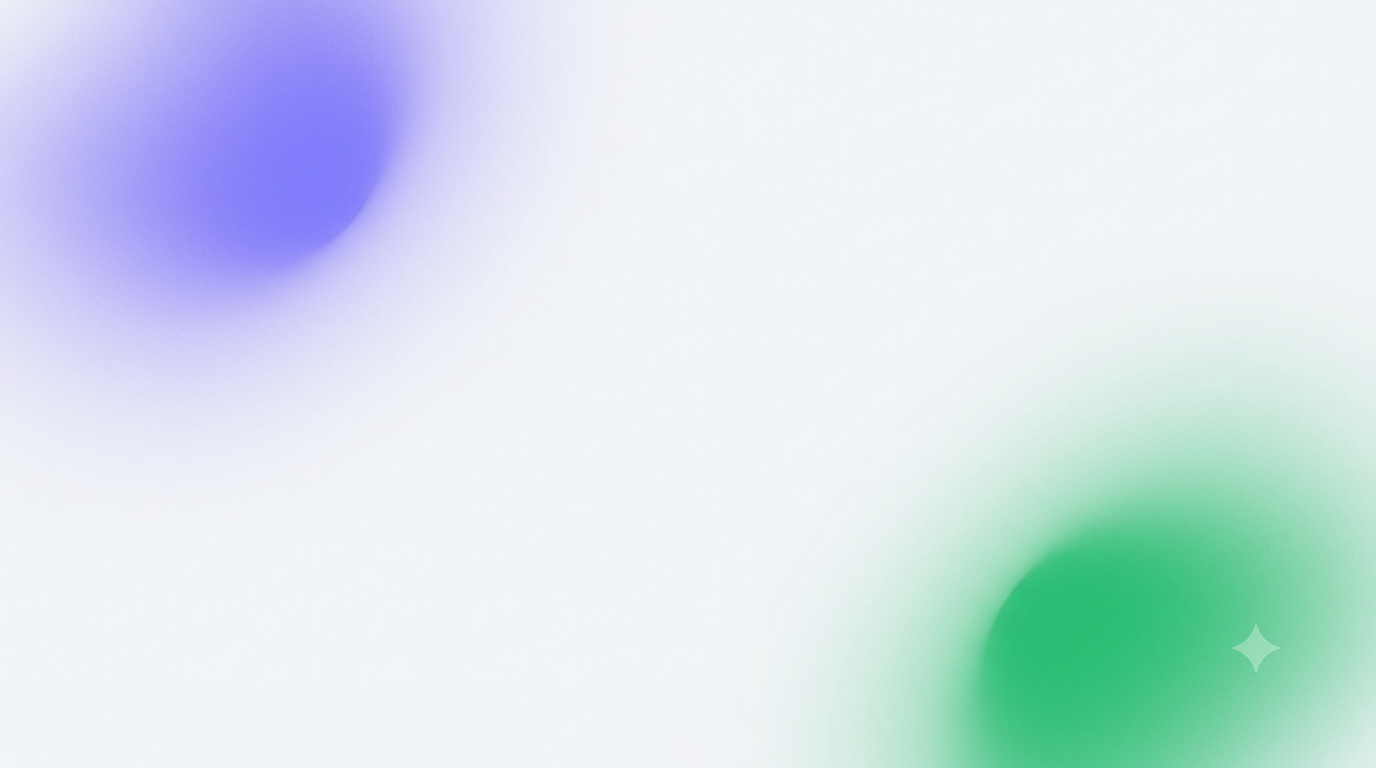
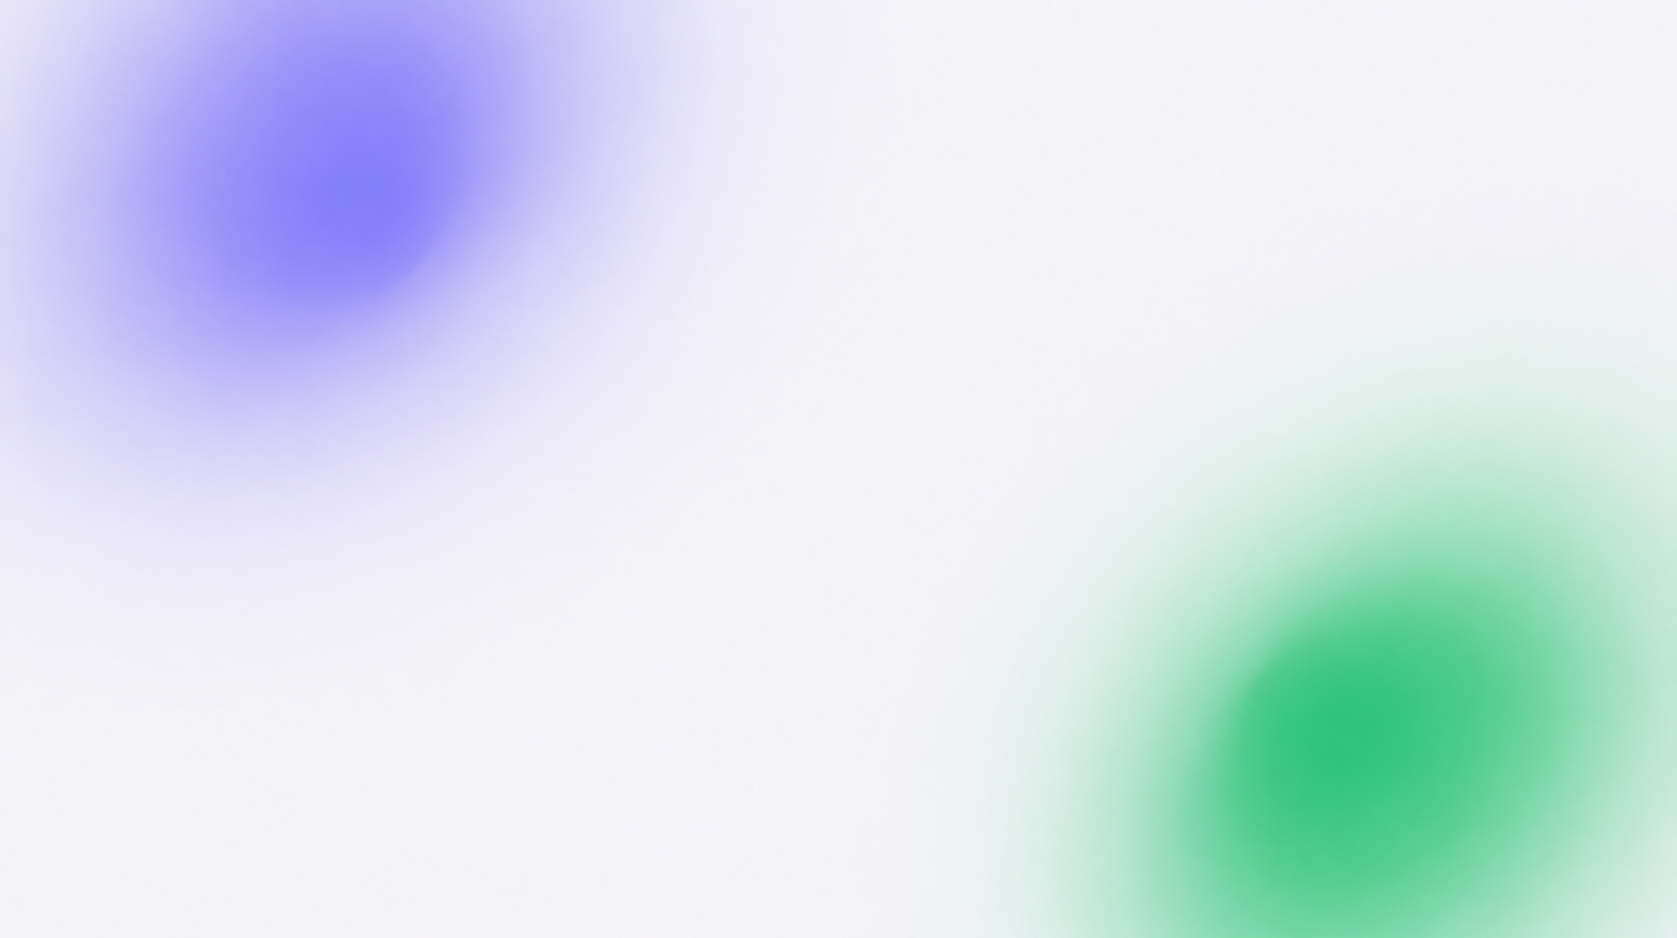
feat(auth): implement new login page UI and update global typography

diff --git a/frontend/src/pages/LoginPage.tsx b/frontend/src/pages/LoginPage.tsx
@@ -3,6 +3,7 @@ import { useNavigate, Link } from "react-router-dom";
 import api from "../api/client";
 import { useAuth } from "../auth/AuthContext";
 import { Toast } from "../lib/toast";
+import AuthLayout from "../auth/AuthLayout";
 
 const LoginPage = () => {
   const navigate = useNavigate();
@@ -27,18 +28,37 @@ const LoginPage = () => {
     }
   };
 
-  return (
-    <div className="min-h-screen flex items-center justify-center bg-gray-100">
-      <form
-        onSubmit={submit}
-        className="bg-white p-6 rounded-lg shadow w-full max-w-sm"
-      >
-        <h1 className="text-2xl font-bold mb-4">Login</h1>
+      return (
+        <AuthLayout
+          title="Welcome Back"
+          subtitle="Sign in to continue to your workspace."
+        >
+          <form
+            onSubmit={submit}
+            className="space-y-5"
+          >
 
-        {error && <p className="text-red-600 mb-3">{error}</p>}
+        {error && (
+          <div className="rounded-xl border border-red-200 bg-red-50 px-4 py-3 text-sm text-red-600">
+            {error}
+          </div>
+        )}
 
         <input
-          className="w-full border p-2 mb-3 rounded"
+          className="
+                      w-full
+                      rounded-xl
+                      border
+                      border-slate-200
+                      bg-white/80
+                      px-4
+                      py-3
+                      outline-none
+                      transition
+                      focus:border-primary
+                      focus:ring-4
+                      focus:ring-primary/10
+                      "
           placeholder="Email"
           value={email}
           onChange={(e) => setEmail(e.target.value)}
@@ -47,25 +67,63 @@ const LoginPage = () => {
 
         <input
           type="password"
-          className="w-full border p-2 mb-4 rounded"
+          className="
+                      w-full
+                      rounded-xl
+                      border
+                      border-slate-200
+                      bg-white/70
+                      px-5
+                      py-4
+                      text-base
+                      placeholder:text-slate-400
+                      outline-none
+                      transition-all
+                      duration-200
+                      focus:border-[#6D5CFF]
+                      focus:ring-4
+                      focus:ring-[#6D5CFF]/10
+                      "
           placeholder="Password"
           value={password}
           onChange={(e) => setPassword(e.target.value)}
           required
         />
 
-        <button className="w-full bg-blue-600 text-white py-2 rounded">
+        <button className="
+                          w-full
+                          rounded-xl
+                          border
+                          border-slate-200
+                          bg-white/70
+                          px-5
+                          py-4
+                          text-base
+                          placeholder:text-slate-400
+                          outline-none
+                          transition-all
+                          duration-200
+                          focus:border-[#6D5CFF]
+                          focus:ring-4
+                          focus:ring-[#6D5CFF]/10
+                          ">
           Login
         </button>
 
-        <p className="text-sm mt-4 text-center">
-          Don’t have an account?{" "}
-          <Link to="/register" className="text-blue-600 underline">
-            Register
-          </Link>
-        </p>
-      </form>
-    </div>
+        <p className="pt-2 text-center text-sm text-slate-600">
+        Don’t have an account?{" "}
+        <Link
+          to="/register"
+          className="
+                      font-semibold
+                      text-[#6D5CFF]
+                      transition-colors
+                      hover:text-[#5B4EF5]">
+          Create Account
+        </Link>
+      </p>
+            </form>
+    </AuthLayout>
   );
 };
 

diff --git a/frontend/src/auth/AuthLayout.tsx b/frontend/src/auth/AuthLayout.tsx
@@ -1,0 +1,70 @@
+import { ReactNode } from "react";
+import authBackground from "../assets/authBackground.png";
+import logo from "../assets/logo.png";
+
+
+interface Props {
+  title: string;
+  subtitle: string;
+  children: ReactNode;
+}
+
+export default function AuthLayout({
+  title,
+  subtitle,
+  children,
+}: Props) {
+  return (
+    <div
+      className="relative flex min-h-screen items-center justify-center overflow-hidden bg-cover bg-center px-6 py-10"
+      style={{
+        backgroundImage: `url(${authBackground})`,
+      }}
+    >
+      <div className="absolute inset-0 bg-white/15 backdrop-blur-[1px]" />
+
+      <div
+        className="
+          relative
+          w-full
+          max-w-md
+          rounded-3xl
+          border
+          border-white/40
+          bg-white/65
+          backdrop-blur-xl
+          shadow-[0_25px_80px_rgba(91,78,245,0.18)]
+          p-8
+        "
+      >
+        <div className="mb-10 flex flex-col items-center">
+          <img
+              src={logo}
+              alt="Syncora"
+              className="
+                mx-auto
+                mb-6
+                w-44
+                sm:w-48
+                lg:w-52
+                object-contain
+                select-none
+              "
+            />
+
+          <div className="mt-6 text-center">
+            <h2 className="text-4xl font-bold tracking-tight text-slate-900">
+              {title}
+            </h2>
+
+            <p className="mt-3 text-base text-slate-500">
+              {subtitle}
+            </p>
+          </div>
+        </div>
+
+        {children}
+      </div>
+    </div>
+  );
+}

diff --git a/frontend/src/index.css b/frontend/src/index.css
@@ -3,7 +3,7 @@
 @tailwind utilities;
 
 @layer base {
-  body {
-    @apply bg-gray-100 text-gray-900 antialiased;
-  }
+    body {
+      font-family: "Manrope", sans-serif;
+    }
 }

diff --git a/frontend/index.html b/frontend/index.html
@@ -2,7 +2,10 @@
 <html lang="en">
   <head>
     <meta charset="UTF-8" />
-    <link rel="icon" type="image/svg+xml" href="/vite.svg" />
+    <link rel="icon" type="image/svg+xml" href="/frontend/src/assets/iconLogo.png" />
+    <link rel="preconnect" href="https://fonts.googleapis.com">
+    <link rel="preconnect" href="https://fonts.gstatic.com" crossorigin>
+    <link href="https://fonts.googleapis.com/css2?family=Manrope:wght@400;500;600;700;800&display=swap" rel="stylesheet">
     <meta name="viewport" content="width=device-width, initial-scale=1.0" />
     <title>Syncora</title>
   </head>